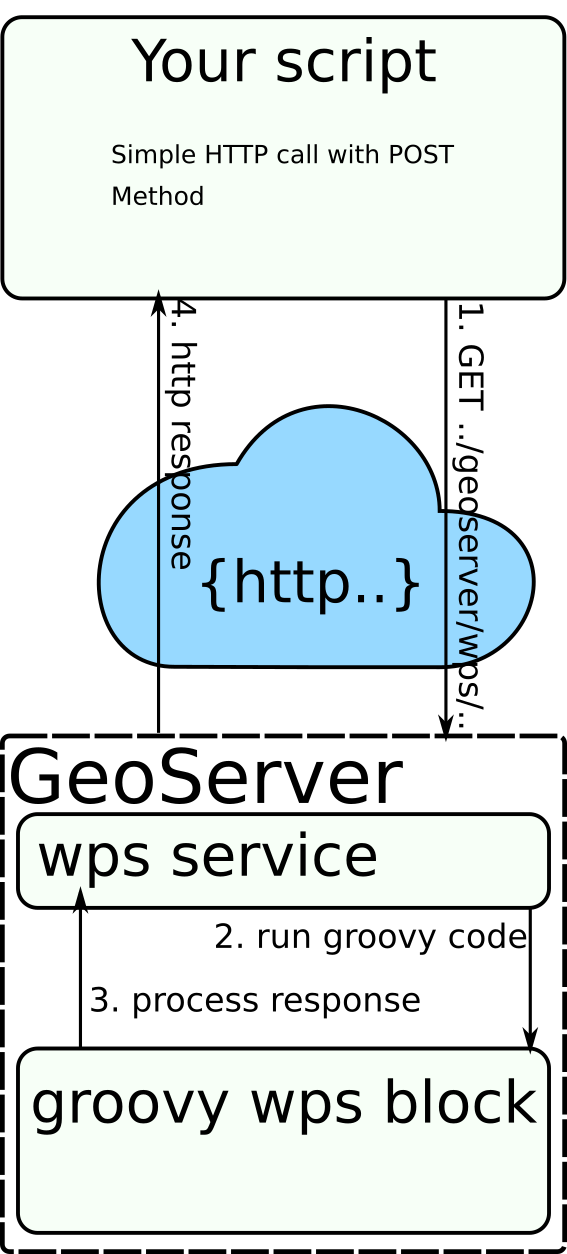
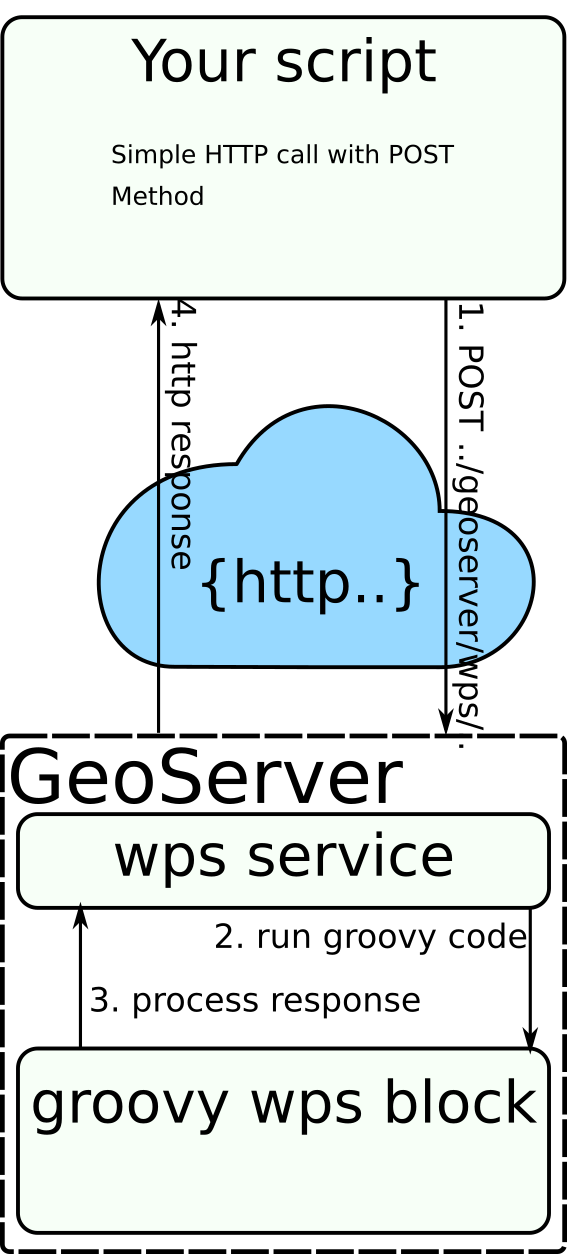
add script doc

Changed region(s): [[0.06, 0.6531, 0.8095, 0.7464], [0.7795, 0.2799, 0.8695, 0.5909], [0.2698, 0.2177, 0.2998, 0.2799]]

diff --git a/Docs/scripts/get_started.py b/Docs/scripts/get_started.py
@@ -1,0 +1,61 @@
+import urllib.request
+from string import Template
+
+import_file = Template('<p0:Execute xmlns:p0="http://www.opengis.net/wps/1.0.0" service="WPS" version="1.0.0"><p1'
+                       ':Identifier xmlns:p1="http://www.opengis.net/ows/1.1">Import_and_Export:Import_File</p1'
+                       ':Identifier><p0:DataInputs><p0:Input><p1:Identifier '
+                       'xmlns:p1="http://www.opengis.net/ows/1.1">pathFile</p1:Identifier><p0:Data><p0:LiteralData'
+                       '>$path</p0:LiteralData></p0:Data></p0:Input></p0:DataInputs'
+                       '><p0:ResponseForm><p0:RawDataOutput><p1:Identifier '
+                       'xmlns:p1="http://www.opengis.net/ows/1.1">result</p1:Identifier></p0:RawDataOutput></p0'
+                       ':ResponseForm></p0:Execute>')
+
+get_lday = Template('<p0:Execute xmlns:p0="http://www.opengis.net/wps/1.0.0" service="WPS" '
+                    'version="1.0.0"><p1:Identifier xmlns:p1="http://www.opengis.net/ows/1.1">NoiseModelling'
+                    ':Lday_from_Traffic</p1:Identifier><p0 :DataInputs><p0:Input><p1:Identifier '
+                    'xmlns:p1="http://www.opengis.net/ows/1.1">tableReceivers</p1:Identifier><p0:Data><p0:LiteralData'
+                    '>$table_receivers</p0:LiteralData></p0:Data></p0:Input><p0:Input><p1:Identifier '
+                    'xmlns:p1="http://www.opengis.net/ows/1.1">tableBuilding</p1:Identifier><p0:Data><p0:LiteralData'
+                    '>$table_buildings</p0:LiteralData></p0:Data></p0:Input><p0:Input><p1:Identifier '
+                    'xmlns:p1="http://www.opengis.net/ows/1.1">tableDEM</p1:Identifier><p0:Data><p0:LiteralData'
+                    '>$table_dem</p0:LiteralData></p0:Data></p0:Input><p0:Input><p1:Identifier '
+                    'xmlns:p1="http://www.opengis.net/ows/1.1">tableRoads</p1:Identifier><p0:Data><p0:LiteralData'
+                    '>$table_roads</p0:LiteralData></p0:Data></p0:Input></p0:DataInputs><p0:ResponseForm><p0'
+                    ':RawDataOutput ><p1:Identifier xmlns:p1="http://www.opengis.net/ows/1.1">result</p1:Identifier'
+                    '></p0:RawDataOutput></p0:ResponseForm></p0:Execute>')
+
+export_table = Template('<p0:Execute xmlns:p0="http://www.opengis.net/wps/1.0.0" service="WPS" '
+                        'version="1.0.0"><p1:Identifier '
+                        'xmlns:p1="http://www.opengis.net/ows/1.1">Import_and_Export:Export_Table</p1:Identifier><p0'
+                        ':DataInputs><p0:Input><p1:Identifier '
+                        'xmlns:p1="http://www.opengis.net/ows/1.1">tableToExport</p1:Identifier><p0:Data><p0'
+                        ':LiteralData>$table_to_export</p0:LiteralData></p0:Data></p0:Input><p0:Input><p1:Identifier '
+                        'xmlns:p1="http://www.opengis.net/ows/1.1">exportPath</p1:Identifier><p0:Data><p0:LiteralData'
+                        '>lday_geom.shp</p0:LiteralData></p0:Data></p0:Input></p0:DataInputs><p0:ResponseForm><p0'
+                        ':RawDataOutput><p1:Identifier '
+                        'xmlns:p1="http://www.opengis.net/ows/1.1">result</p1:Identifier></p0:RawDataOutput></p0'
+                        ':ResponseForm></p0:Execute>')
+
+
+def call_geoserver(data):
+    req = urllib.request.Request(url='http://localhost:9580/geoserver/ows', data=bytes(data, encoding="utf8"),
+                                 method='POST')
+    req.add_header('Content-Type', 'application/xml; charset=utf-8')
+
+    with urllib.request.urlopen(req) as f:
+        print(f.status)
+        print(f.reason)
+        if f.status == 200:
+            print(str(f.read(), encoding="utf8"))
+
+
+call_geoserver(import_file.substitute({"path": "data_dir/data/wpsdata/buildings.shp"}))
+call_geoserver(import_file.substitute({"path": "data_dir/data/wpsdata/ground_type.shp"}))
+call_geoserver(import_file.substitute({"path": "data_dir/data/wpsdata/receivers.shp"}))
+call_geoserver(import_file.substitute({"path": "data_dir/data/wpsdata/roads.shp"}))
+call_geoserver(import_file.substitute({"path": "data_dir/data/wpsdata/dem.geojson"}))
+
+call_geoserver(get_lday.substitute({"table_receivers": "RECEIVERS", "table_buildings": "BUILDINGS"
+                                       , "table_roads": "ROADS", "table_dem": "DEM"}))
+
+call_geoserver(export_table.substitute({"table_to_export": "LDAY_GEOM"}))

diff --git a/Docs/NoiseModellingScripting.rst b/Docs/NoiseModellingScripting.rst
@@ -25,3 +25,38 @@ https://en.wikipedia.org/wiki/Web_Processing_Service
 How it works
 ~~~~~~~~~~~~~~~~~~~~~~~~~~~~~~
 
+Processing scripts are hosted by a GeoServer instance. This software contain a web server that listen for localhost requests.
+
+What your scripts need to do is simply access this web server like a web browser would. The difficulty being the creation of the entries expected by the service.
+
+.. figure:: images/wps_api.png
+   :height: 600px
+   :align: center
+
+Method to easily find inputs query
+~~~~~~~~~~~~~~~~~~~~~~~~~~~~~~~~~~
+
+The POST request must contain the expected inputs.
+
+You can use your navigator debug mode with the WPS Builder GUI In order to generate the inputs for you.
+
+Once in WPS Gui press F12 key to enter debug mode, then click on network tab:
+
+.. figure:: images/tutorial/Tutorial2_Image1.PNG
+   :height: 600px
+   :align: center
+
+From here click on "Run process", now you have the complete url and query to copy-paste into your script.
+
+Get started using Python
+~~~~~~~~~~~~~~~~~~~~~~~~~~~~~~
+
+The following script run the exact WPS blocks used in the Get Started tutorial.
+
+We can use the String.Template class in order to substitute our inputs.
+
+urllib.request module is also helpful for post queries.
+
+.. literalinclude:: scripts/get_started.py
+   :language: python
+   :linenos:
